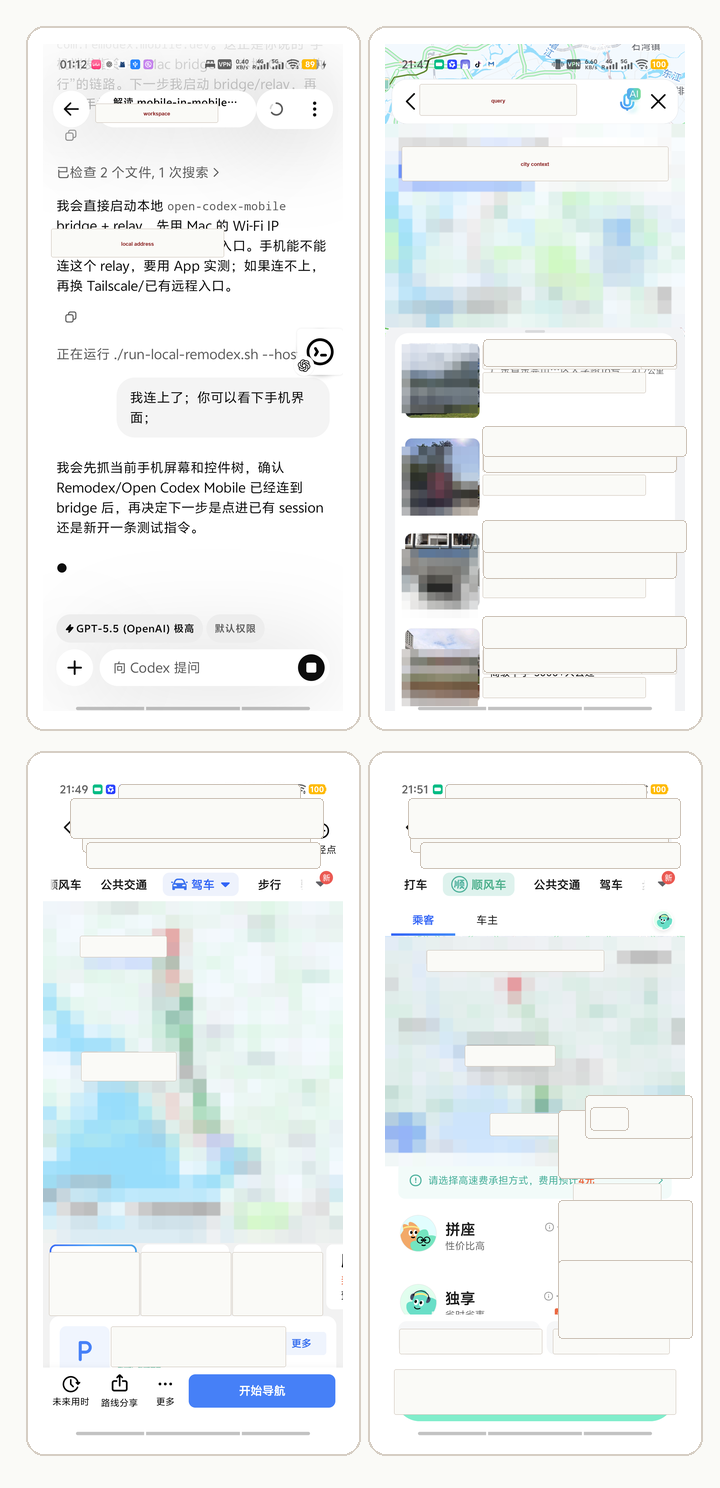
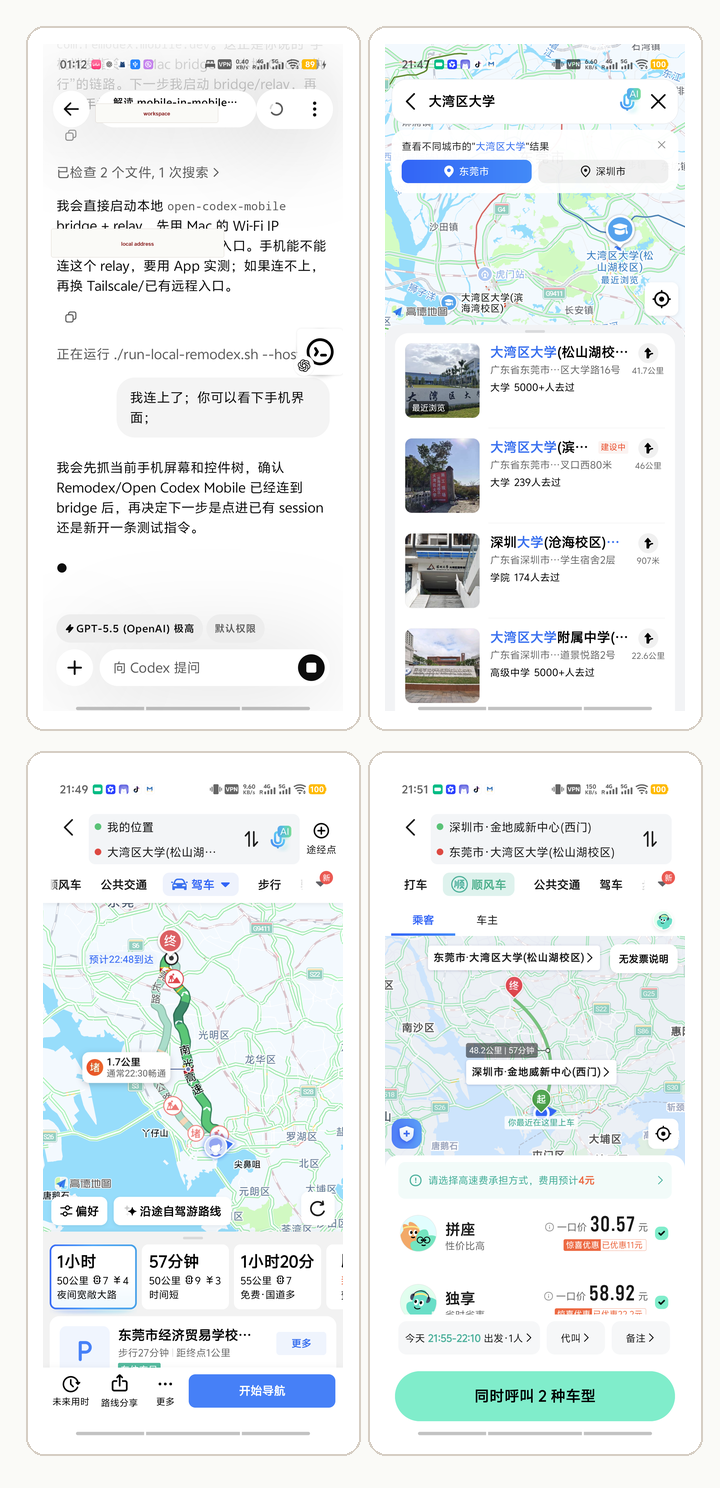
Reduce mobile-on-mobile screenshot redaction

diff --git a/blogs/mobile-on-mobile-agent-loop/index.html b/blogs/mobile-on-mobile-agent-loop/index.html
@@ -79,11 +79,11 @@
 
       <section class="article-section">
         <h2>The demo</h2>
-        <p>I used a deliberately ordinary task: open a map app on the connected phone, search for a redacted destination, read a route or ride estimate, and stop before any irreversible action. The public screenshots are redacted because location, distance, time, and map context can all become personal information.</p>
+        <p>I used a deliberately ordinary task: open a map app on the connected phone, search for a destination, read a route or ride estimate, and stop before any irreversible action. The public screenshots keep the map flow visible; only local infrastructure details in the control screenshot are masked.</p>
         <p>The point of the demo was not the specific route. The point was that the agent operated a real phone app and came back with evidence from the same device that initiated the request.</p>
         <figure class="visual-figure generated-image-figure">
-          <figcaption>Figure 3: redacted evidence from the live run. The screenshots preserve the shape of the loop without exposing the destination or route details.</figcaption>
-          <img src="./assets/evidence-collage.png" alt="Redacted screenshots showing phone Codex, map search result, route estimate, and ride estimate evidence" loading="lazy">
+          <figcaption>Figure 3: evidence from the live run. The map screenshots keep the real app flow visible, while the control screenshot hides local infrastructure details.</figcaption>
+          <img src="./assets/evidence-collage.png" alt="Screenshots showing phone Codex, map search result, route estimate, and ride estimate evidence" loading="lazy">
         </figure>
       </section>
 
@@ -111,7 +111,7 @@
       <section class="article-section">
         <h2>Safety boundaries</h2>
         <p>This kind of loop should stay conservative. It is fine to open an app, search, read a result, and collect screenshots. It is not fine to silently place orders, pay, send messages, change account settings, grant new permissions, or handle sensitive content without explicit user confirmation.</p>
-        <p>The same applies to publishing traces. Phone screenshots often contain more personal data than expected: location, account state, notification icons, map context, local IPs, nearby places, and historical app state. The public artifact should be redacted by default.</p>
+        <p>The same applies to publishing traces. Phone screenshots often contain more personal data than expected: location, account state, notification icons, map context, local IPs, nearby places, and historical app state. The public artifact should be reviewed deliberately, and infrastructure details should be masked when they are not part of the point.</p>
       </section>
 
       <section class="article-section">